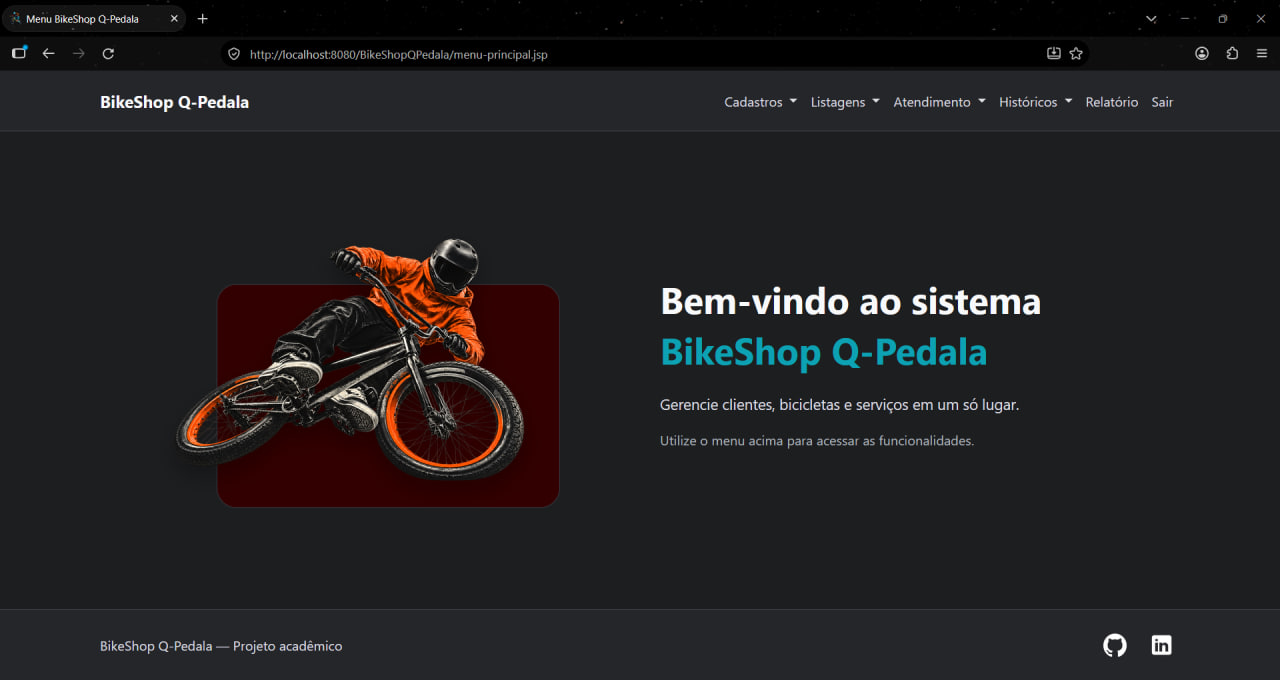
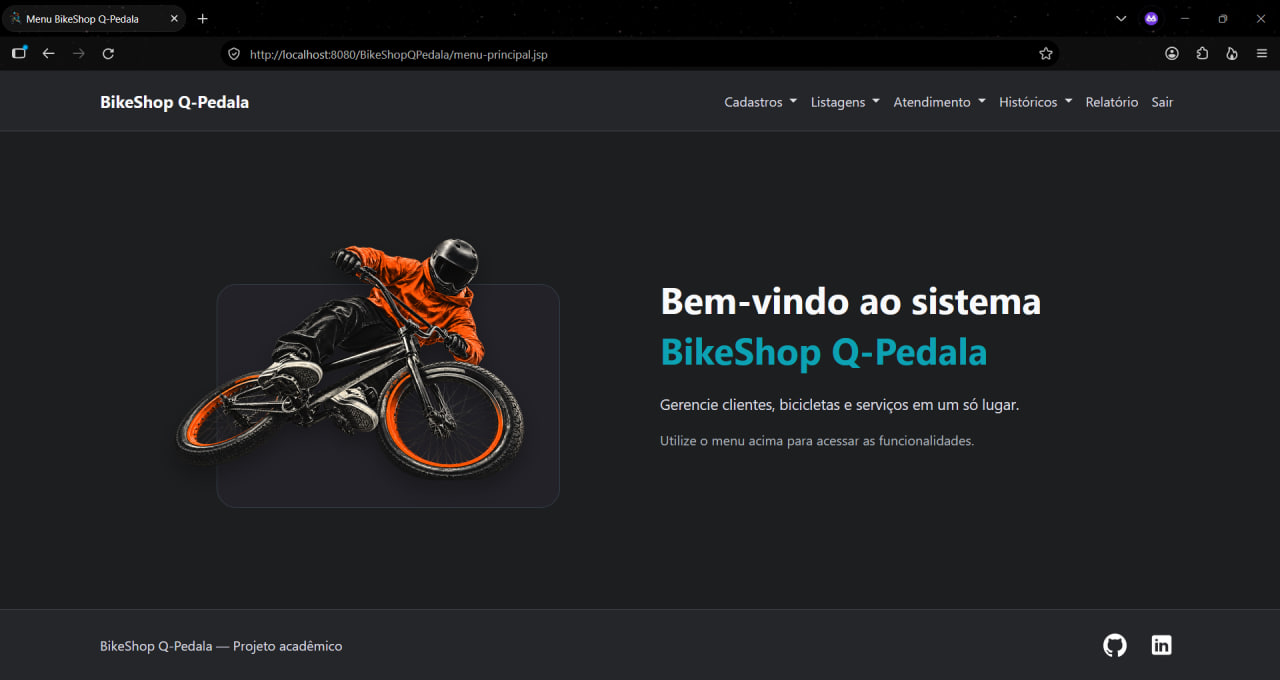
Correção no plano de fundo da imagem

diff --git a/src/main/webapp/resources/css/style.css b/src/main/webapp/resources/css/style.css
@@ -216,7 +216,7 @@ main {
     content: "";
     position: absolute;
     inset: 10% 0 0 8%;
-    background-color: #320000;
+    background-color: #222228;
 	border: 1px solid #35414b;
     border-radius: 24px;
     z-index: -1;
